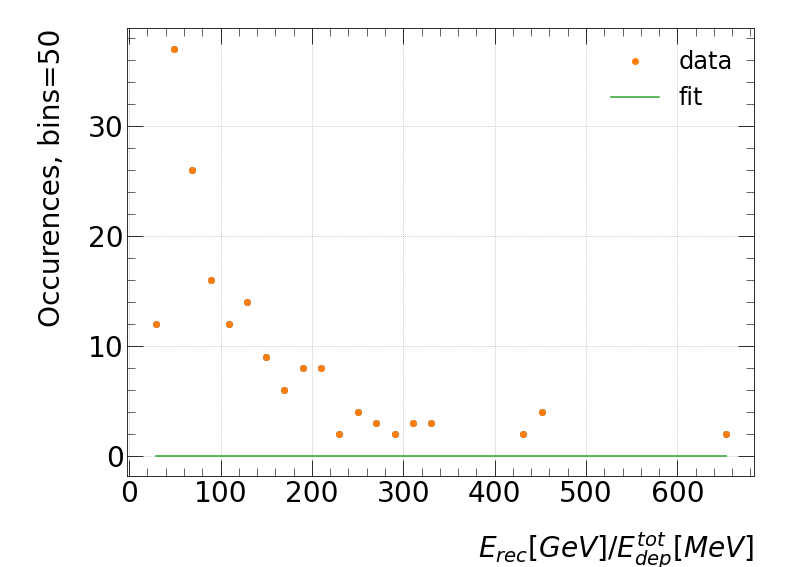
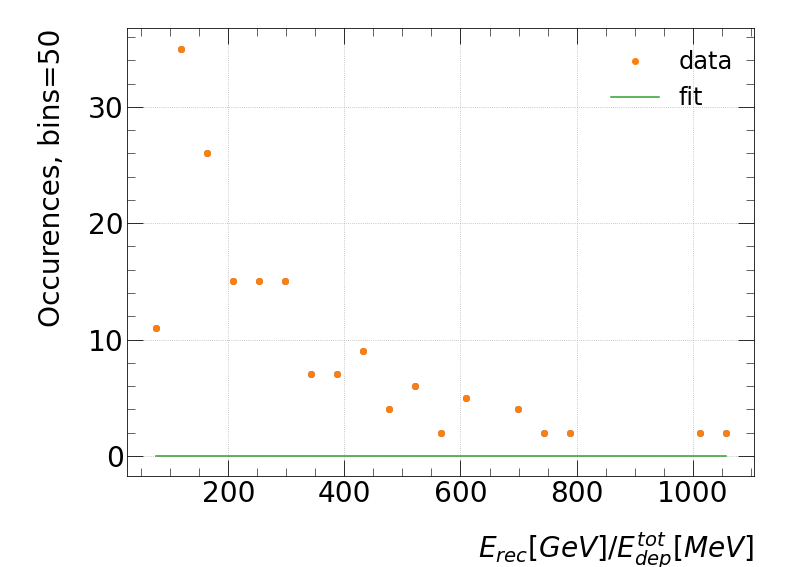
working

diff --git a/shan_scripts/plots.py b/shan_scripts/plots.py
@@ -199,42 +199,20 @@ def tot(xx, yy, fname):
         transform=ax.transAxes, verticalalignment='top', horizontalalignment='left')
     pyplot.savefig(fname)
 
-def ratio(xx, yy, fname, my_path):
-    energies = xx
-    df = pd.read_csv(f'{my_path}/data_frame.csv')
-    xx = df['target']
-
+def ratio(xx, yy, fname):
     fig,ax = pyplot.subplots()
     # ax.scatter(xx,yy, color='k', label="E[GeV](output) / PixelSum")
-
-    # xx /= 180
-
     ax.scatter(xx,yy, color='k')
     ax.legend(loc=(0.625,0.8))  # defined by left-bottom of legend box; in the ratio of figure size
     # ax.set_xlim(-3,3)
     ax.set_ylim(0,400)
-
-    # ax.set_xlabel(r'$E_{gen}[GeV]$')
-    ax.set_xlabel(r'Multiplicity')
-
+    ax.set_xlabel(r'$E_{gen}[GeV]$')
     ax.set_ylabel(r'$E_{rec}[GeV] / E^{tot}_{dep}[MeV]$')
     # ax.text(0.45,0.9,"$LUXE$ CNN\ne-laser IPstrong ECAL", \
         # transform=ax.transAxes, verticalalignment='top')
     # ax.text(0.45,0.7,f"180 BXs {layers} first layers", \
         # transform=ax.transAxes, verticalalignment='top')
-    pyplot.savefig(fname+'_ratio.png')
-
-    fig,ax = pyplot.subplots(num=0)
-
-    energies = np.array(energies)
-    energies /= 180
-    ax.scatter(xx,energies, color='k')
-    # ax.legend(loc=(0.625,0.8))  # defined by left-bottom of legend box; in the ratio of figure size
-    # ax.set_xlim(-3,3)
-    # ax.set_ylim(0,400)
-    ax.set_xlabel(r'Multiplicity')
-    ax.set_ylabel("Energy[GeV]")
-    pyplot.savefig(fname+'_energyvsmultiplicity.png')
+    pyplot.savefig(fname)
 
 def image_hist(location, yy1, num_events):
     pyplot.style.use("./shan_scripts/luxe.mplstyle")
@@ -307,13 +285,7 @@ def projection_sand(xdata, ydata, filename, bins):
     plt.ylabel(f'Occurences, bins={bins}')
     plt.savefig(filename)
 
-def interval_sand(x, y, interval, filename, mypath):
-
-    df = pd.read_csv(f'{mypath}/data_frame.csv')
-    xx = df['target']
-
-    x = xx
-
+def interval_sand(x, y, interval, filename):
     sort = np.argsort(x)
     y = y[sort]
     x = x[sort]
@@ -329,17 +301,11 @@ def interval_sand(x, y, interval, filename, mypath):
         xlist.append(x[cond].mean())
     plt.figure()
     plt.clf()
-    xaxis = np.array(range(len(xlist)))
-    ystd = np.array(ystd)
-    y = np.array(ylist)
-    xaxis = xaxis[y > 0]
-    ystd = ystd[y > 0]
-    y = y[y > 0]
-    plt.errorbar(xaxis, y, ystd)
-    plt.ylim(0, 400)
-    plt.plot(xaxis, y)
-    plt.title(f'Mean values in batch of {interval} Multiplicity')
-    plt.xlabel('Multiplicity')
+    xaxis = range(len(xlist))
+    plt.errorbar(xaxis, ylist, ystd)
+    plt.plot(xaxis, ylist)
+    plt.title(f'Mean values in intervals of {interval}')
+    plt.xlabel('intervals')
     plt.ylabel(r'Mean of: $E_{rec}[GeV] / E^{tot}_{dep}[MeV]$')
     plt.savefig(filename, bbox_inches='tight')
 

diff --git a/sandbox/work_with_input.py b/sandbox/work_with_input.py
@@ -33,9 +33,8 @@ def plot_image(ecalimage, name):
 
 if __name__ == '__main__':
 
-
-    name = 'case_4' # case number
-    layers = 20
+    name = 'case_3' # case number
+    layers = 5
     location = f'./csv_files/kfold5/{name}/run_0/epoch_25'
     # x = np.random.rand(110,20)
     # x = np.transpose(x)
@@ -111,7 +110,7 @@ if __name__ == '__main__':
         
         # x.append(np.array(energies[str(event)]).sum())
         # y.append(np.array(energies[str(event)]).sum() / sum_dict[str(event)])
-    p.ratio(x, y, f'./sandbox/figures/{name}', location)
+    p.ratio(x, y, f'./sandbox/figures/{name}_ratio.png')
 
     x_numpy = np.array(x)
     y_numpy = np.array(y)
@@ -123,5 +122,4 @@ if __name__ == '__main__':
     # p.projection_sandbox(xx, yy1, f'./sandbox/figures/{name}_ratio_projection.png', y_numpy, bins=30)
     
     p.projection_sand(xx, yy1, f'./sandbox/figures/{name}_ratio_projection.png', bins)
-    p.interval_sand(x_numpy, y_numpy, interval=100, filename=f'./sandbox/figures/{name}_intervals.png', mypath=location)
-
+    p.interval_sand(x_numpy, y_numpy, interval=1000, filename=f'./sandbox/figures/{name}_intervals.png')
